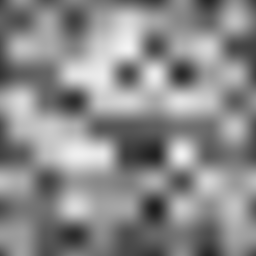
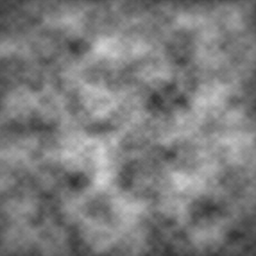
noise with layers

diff --git a/A4/Texture.cpp b/A4/Texture.cpp
@@ -1,4 +1,5 @@
 #include <iostream>
+#include <algorithm>
 #include <cmath>
 #include <cstdlib>
 
@@ -196,27 +197,69 @@ NoiseTexture::NoiseTexture()
 NoiseTexture::NoiseTexture(int width, int height)
     : latticeWidth(width), latticeHeight(height)
 {
-    srand(451);
+    srand(420);
 
     // TODO: implement 2d, and then 3d, but for now, just 1d
-    for (int i = 0; i<width*height; ++i) {
+    for (int i = 0; i<256; ++i) {
         float r = static_cast <float> (rand()) / static_cast <float> (RAND_MAX);
         float g = static_cast <float> (rand()) / static_cast <float> (RAND_MAX);
         float b = static_cast <float> (rand()) / static_cast <float> (RAND_MAX);
         randomColour.push_back(glm::vec3(r,g,b));
+        permutationTable.push_back(i);
     }
+
+    // Shuffle our permutation table
+    std::vector<int> secondPermutationTable = permutationTable; 
+
+    std::random_shuffle(permutationTable.begin(), permutationTable.end());
+    std::random_shuffle(secondPermutationTable.begin(), secondPermutationTable.end());
+    permutationTable.insert(permutationTable.end(), secondPermutationTable.begin(), secondPermutationTable.end());
+
 }
 
 NoiseTexture::~NoiseTexture()
 {
 }
 
-// u and v will wrap instead of clamp to the right range
-glm::vec3 NoiseTexture::getRandomColour(int u, int v)
+glm::vec3 NoiseTexture::getFractalSumColour(double u, double v, int layers)
 {
-    int indexU = u % latticeWidth;
-    int indexV = v % latticeHeight;
-    return randomColour[indexV*latticeWidth + indexU];
+    glm::vec3 noiseTotal = glm::vec3(0);
+    double noiseMax = 0;
+    for (int i=0; i<layers; ++i) {
+        double amplitude = glm::exp2((double)-i);
+        noiseTotal += amplitude * getRandomColour(u, v, glm::exp2((double)i));
+        noiseMax += amplitude;
+    }
+
+    return noiseTotal / noiseMax;
+}
+
+glm::vec3 NoiseTexture::getRandomColour(double u, double v, int frequency)
+{
+    double texU = latticeWidth * frequency * glm::clamp(u, 0.0, 1.0);
+    double texV = latticeHeight * frequency * glm::clamp(v, 0.0, 1.0);
+
+    double floorU, floorV;
+    double tU = glm::smoothstep(0.0, 1.0, std::modf(texU, &floorU));
+    double tV = glm::smoothstep(0.0, 1.0, std::modf(texV, &floorV));
+
+    int indexU = (int) floorU;
+    int indexV = (int) floorV;
+
+    glm::vec3 topLeft = getRandomColour(indexU, indexV+1);
+    glm::vec3 topRight = getRandomColour(indexU+1, indexV+1);
+    glm::vec3 bottomLeft = getRandomColour(indexU, indexV);
+    glm::vec3 bottomRight = getRandomColour(indexU+1, indexV);
+
+    return mix2D(topLeft, topRight, bottomLeft, bottomRight, tU, tV);
+}
+
+// u and v will wrap instead of clamp to the right range
+glm::vec3 NoiseTexture::getRandomColour(int u, int v, int frequency)
+{
+    int indexU = (u % (latticeWidth * frequency)) % 256;
+    int indexV = (v % (latticeHeight * frequency)) % 256;
+    return randomColour[permutationTable[permutationTable[indexU] + indexV]];
 }
 
 // Linearly interpolates the colour value between 4 points in a square
@@ -231,7 +274,7 @@ glm::vec3 NoiseTexture::mix2D(const glm::vec3 & topLeft,
 
     glm::vec3 center = glm::mix(bottom, top, ty);
 
-    // TODO: just use the r value for now, It's a huge waste of space, but whatever.
+    // TODO: just use the r value for now, It's a huge waste 2f space, but whatever.
     return glm::vec3(center.r);
 }
 
@@ -253,7 +296,8 @@ glm::vec3 NoiseTexture::getColour(double u, double v)
     glm::vec3 bottomRight = getRandomColour(indexU+1, indexV);
 
     // 1d: return glm::mix(randomColour[indexU], randomColour[(indexU+1)%latticeWidth], glm::smoothstep(0.0, 1.0, tU));
-    return mix2D(topLeft, topRight, bottomLeft, bottomRight, tU, tV);
+    // 2d: return mix2D(topLeft, topRight, bottomLeft, bottomRight, tU, tV);
+    return glm::vec3(getFractalSumColour(u, v, 5).r);
 }
 
 //-----------------------------------------------------

diff --git a/A4/Texture.hpp b/A4/Texture.hpp
@@ -76,6 +76,7 @@ class NoiseTexture : public Texture {
 protected:
 
     std::vector<glm::vec3> randomColour;
+    std::vector<int> permutationTable;
 
     int latticeWidth;
     int latticeHeight;
@@ -86,7 +87,11 @@ protected:
                                 const glm::vec3 & bottomRight, 
                                 double tx, double ty);
 
-    glm::vec3 getRandomColour(int u, int v);
+    glm::vec3 getRandomColour(double u, double v, int frequency = 1);
+
+    glm::vec3 getRandomColour(int u, int v, int frequency = 1);
+
+    glm::vec3 getFractalSumColour(double u, double v, int layers);
 
 public:
 
